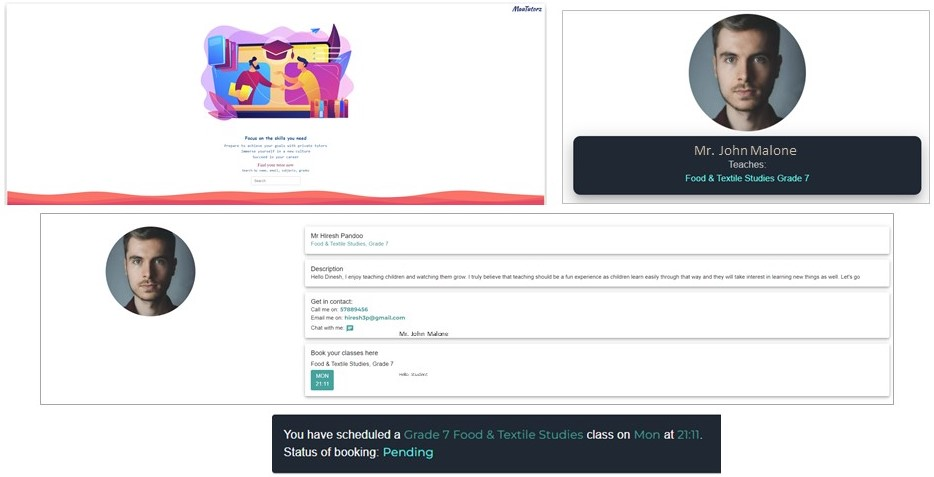
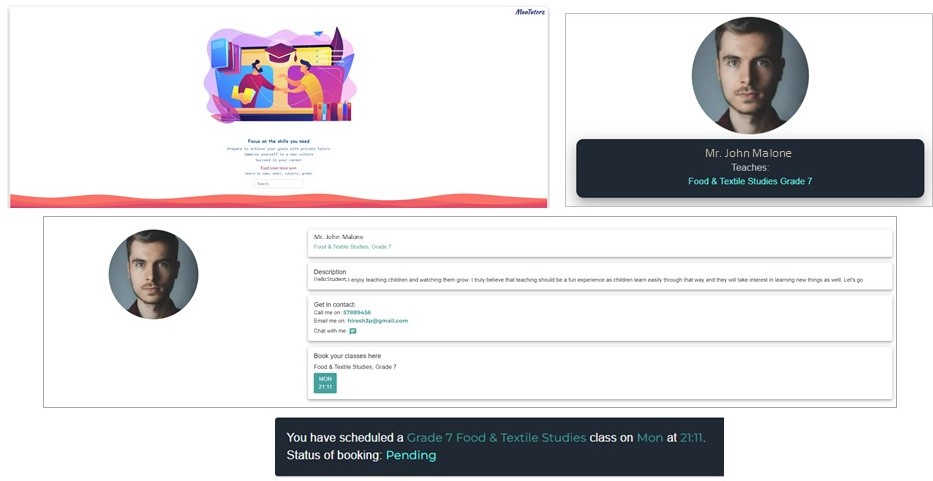
+HeroStudent Minor Changes

diff --git a/client/src/components/Hero/HeroStudent.js b/client/src/components/Hero/HeroStudent.js
@@ -184,7 +184,7 @@ const HeroStudent = () => {
       <Box sx={{ mt: 5, textAlign: "center" }}>
         <StudentBanner src={StudentJoinBanner} alt={"banner"} />
         <Typography sx={{ mt: 2 }}>
-          Student, if you want enjoy the luxury of e-tutoring, be part of the
+          Student, if you want enjoy the comfort of e-tutoring, be part of the
           MauTutorz family, Let's
         </Typography>
         <Link to="/register" style={{ textDecoration: "none" }}>
